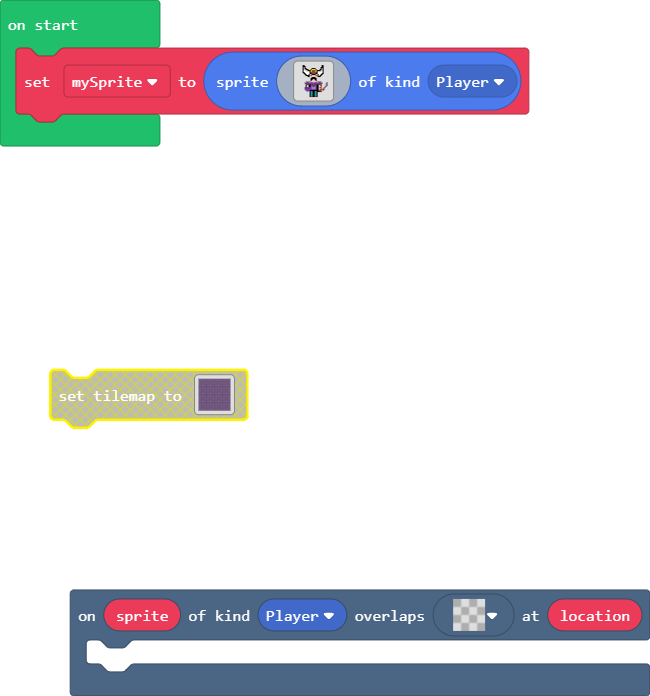
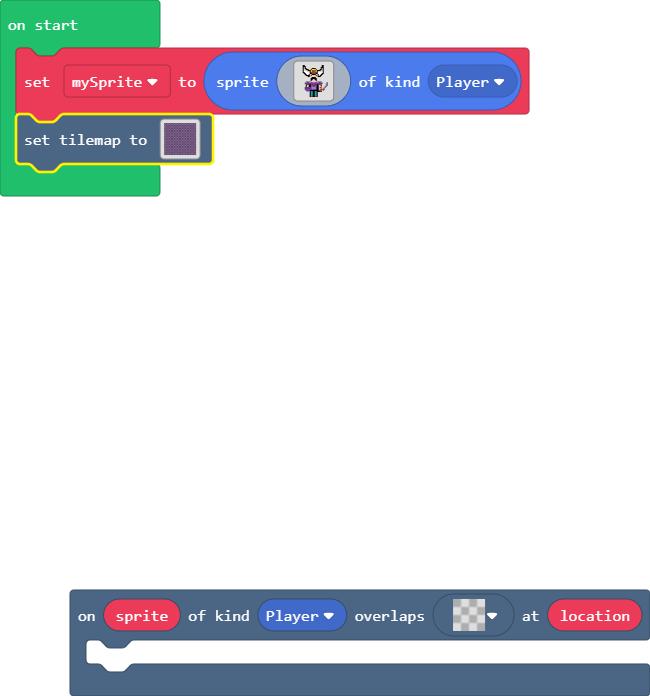
Update main.blocks, main.ts

Changed region(s): [[0.0, 0.1509, 0.3385, 0.3017], [0.0615, 0.5129, 0.4, 0.6336], [0.3692, 0.875, 0.4, 0.9052]]

diff --git a/main.ts b/main.ts
@@ -56,3 +56,30 @@ let mySprite = sprites.create(img`
 . . . . . . . . . . . . f 6 6 f f 6 6 f . . . . . . . . . . . . 
 . . . . . . . . . . . . f e e f f e e f . . . . . . . . . . . . 
 `, SpriteKind.Player)
+tiles.setTilemap(tiles.createTilemap(
+            hex`1400140002080808080808080808080808080808080808080703030303030303030303030303030303030303070303030303030303030303030303030303030307030303030303030303030303030303030303030703030303030303030303030303030303030303070303030303030303030303030303030303030307030303030303030303030303030303030303030703030303030303030303030303030303030303070303030303030303030303030303030303030307030303030303030303030303030303030303030703030303030303030303030303030303030303070303030303030303030303030303030303030307030303030303030303030303030303030303030703030303030303030303030303030303030303070303030303030303030303030303030303030307030303030303030303030303030303030303030703030303030303030303030303030303030303070303030303030303030303030303030303030307030303030303030303030303030303030303030703030303030303030303030303030303030303`,
+            img`
+. . . . . . . . . . . . . . . . . . . . 
+. . . . . . . . . . . . . . . . . . . . 
+. . . . . . . . . . . . . . . . . . . . 
+. . . . . . . . . . . . . . . . . . . . 
+. . . . . . . . . . . . . . . . . . . . 
+. . . . . . . . . . . . . . . . . . . . 
+. . . . . . . . . . . . . . . . . . . . 
+. . . . . . . . . . . . . . . . . . . . 
+. . . . . . . . . . . . . . . . . . . . 
+. . . . . . . . . . . . . . . . . . . . 
+. . . . . . . . . . . . . . . . . . . . 
+. . . . . . . . . . . . . . . . . . . . 
+. . . . . . . . . . . . . . . . . . . . 
+. . . . . . . . . . . . . . . . . . . . 
+. . . . . . . . . . . . . . . . . . . . 
+. . . . . . . . . . . . . . . . . . . . 
+. . . . . . . . . . . . . . . . . . . . 
+. . . . . . . . . . . . . . . . . . . . 
+. . . . . . . . . . . . . . . . . . . . 
+. . . . . . . . . . . . . . . . . . . . 
+`,
+            [myTiles.tile0,sprites.builtin.brick,sprites.dungeon.darkGroundNorthWest0,sprites.dungeon.darkGroundCenter,sprites.dungeon.darkGroundSouthWest0,sprites.dungeon.darkGroundNorthEast0,sprites.dungeon.darkGroundSouthEast0,sprites.dungeon.darkGroundWest,sprites.dungeon.darkGroundNorth,sprites.dungeon.darkGroundEast,sprites.dungeon.darkGroundSouth],
+            TileScale.Sixteen
+        ))
